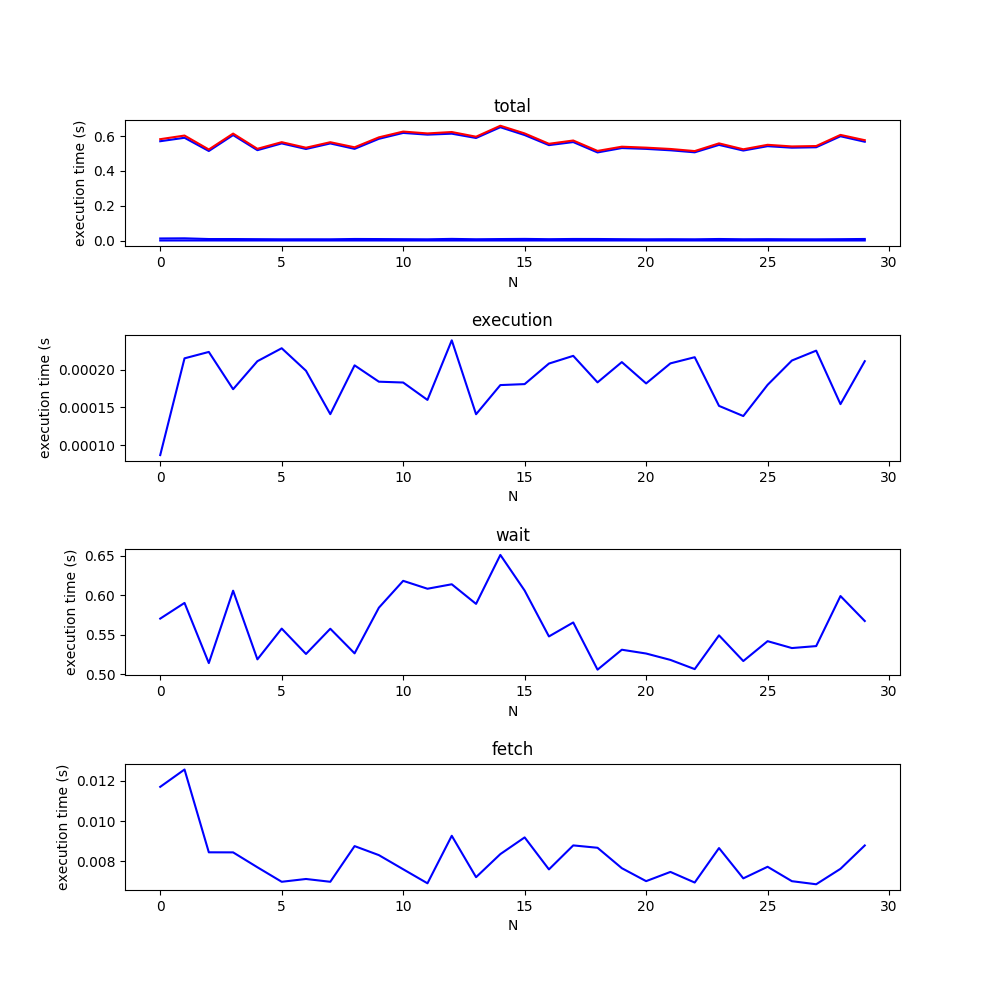
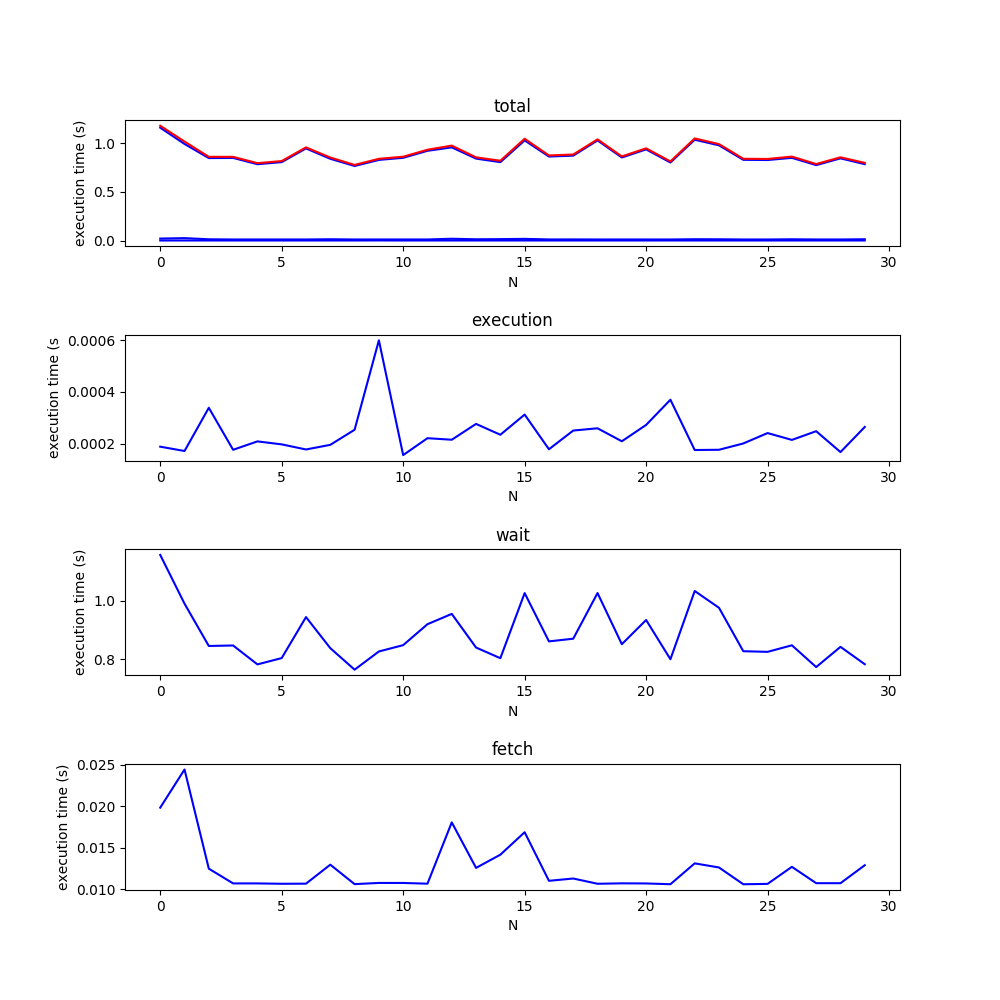
pool and async queries

diff --git a/bd.py b/bd.py
@@ -31,18 +31,34 @@ def create_connection(db_name, db_user, db_password, db_host, db_port):
         print(f"The error '{e}' occurred")
     return connection
 
-def create_connection_pool(min_co, max_co, db_name, db_user, db_password, db_host, db_port):
-	try:
-		threaded_postgreSQL_pool = psycopg2.pool.ThreadedConnectionPool(min_co, max_co, user = db_user,
-		                          password = db_password,
-		                          host = db_host,
-		                          port = db_port,
-		                          database = db_name, async=1)
-		if(threaded_postgreSQL_pool):
-			print("Connection pool created successfully using ThreadedConnectionPool")
+def create_connection_pool(min_co, max_co, db_name, db_user, db_password, db_host, db_port,async):
 
-	except (Exception, psycopg2.DatabaseError) as error :
-		print ("Error while connecting to PostgreSQL", error)
+	if async==1:
+
+		try:
+			threaded_postgreSQL_pool = psycopg2.pool.ThreadedConnectionPool(min_co, max_co, user = db_user,
+			                          password = db_password,
+			                          host = db_host,
+			                          port = db_port,
+			                          database = db_name, async=1)
+			if(threaded_postgreSQL_pool):
+				print("ASYNC Connection pool created successfully using ThreadedConnectionPool")
+
+		except (Exception, psycopg2.DatabaseError) as error :
+			print ("Error while connecting to PostgreSQL", error)
+	else:
+		try:
+			threaded_postgreSQL_pool = psycopg2.pool.ThreadedConnectionPool(min_co, max_co, user = db_user,
+			                          password = db_password,
+			                          host = db_host,
+			                          port = db_port,
+			                          database = db_name)
+			if(threaded_postgreSQL_pool):
+				print("Connection pool created successfully using ThreadedConnectionPool")
+
+		except (Exception, psycopg2.DatabaseError) as error :
+			print ("Error while connecting to PostgreSQL", error)
+
 
 	return threaded_postgreSQL_pool
 
@@ -347,9 +363,8 @@ def exe_query_async_Ntimes(query, N):
 	#plot_perf(times_fetch,'async_fetch')
 	#plot_perf(times_wait, 'async_wait')
 	
-def query_async_pool_Ntimes(query,N):
-	pool = create_connection_pool(1,5,"postgis_test","postgres","admin","localhost","5432")
-
+def query_seq_async_pool_Ntimes(query,N):
+	pool = create_connection_pool(1,5,"postgis_test","postgres","admin","localhost","5432",1)
 
 	times_exe = []
 	times_fetch = []
@@ -390,6 +405,43 @@ def query_async_pool_Ntimes(query,N):
 	plot_fig(times_exe,times_wait,times_fetch,times_total, 'async_pool_perf')
 	#Use this method to release the connection object and send back ti connection pool
 
+
+def query_async_pool_Ntimes(query,N,nbpool):
+	pool = create_connection_pool(1,nbpool,"postgis_test","postgres","admin","localhost","5432",1)
+
+	times_exe = []
+	times_fetch = []
+	times_wait = []
+	times_total = []
+
+	
+	#print("Running query {} in async mode".format(i))
+	
+
+	for i in range(N):
+		aconn  = pool.getconn()
+		wait(aconn)
+		acurs = aconn.cursor()
+		acurs.execute(query)
+
+	for i in range(N):
+		wait(acurs.connection)
+
+		result = acurs.fetchall()
+		print("query done")
+		#acurs.close()
+	pool.putconn(aconn)
+				
+
+
+		
+	#results = execute_read_query(ps_connection, query)
+		
+
+	#plot_fig(times_exe,times_wait,times_fetch,times_total, 'async_pool_perf')
+	#Use this method to release the connection object and send back ti connection pool
+
+
 def main():
 	#srid = get_raster_srid("altifr_p2")
 	#print(srid)
@@ -404,8 +456,8 @@ def main():
 	
 	q1 = "SELECT ST_AsGDALRaster(ST_Union(altifr_75m_0150_6825.rast), 'GTiff') FROM altifr_75m_0150_6825"
 	#exe_query_Ntimes_pool(q1, 40)
-	exe_query_async_Ntimes(q1,30)
-	query_async_pool_Ntimes(q1,30)
+	#exe_query_async_Ntimes(q1,30)
+	query_async_pool_Ntimes(q1,30,30)
 
 if __name__== "__main__" :
 	main()
